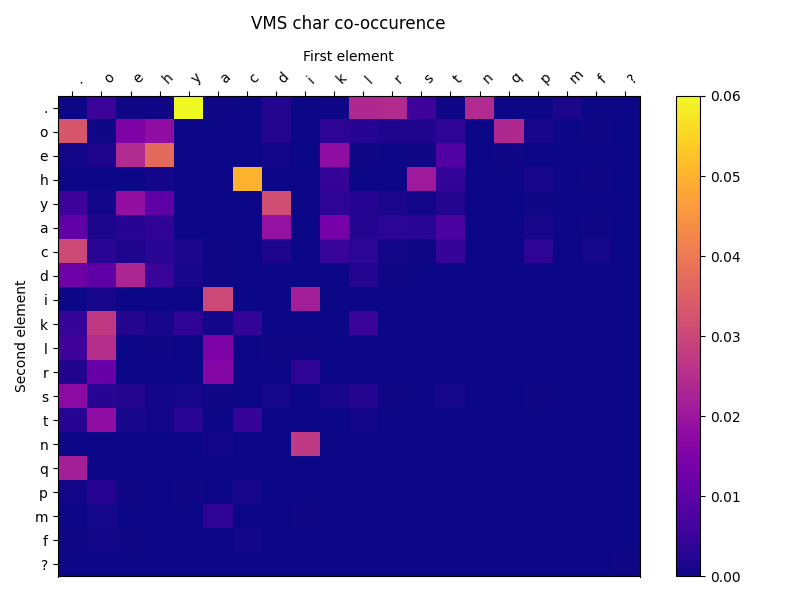
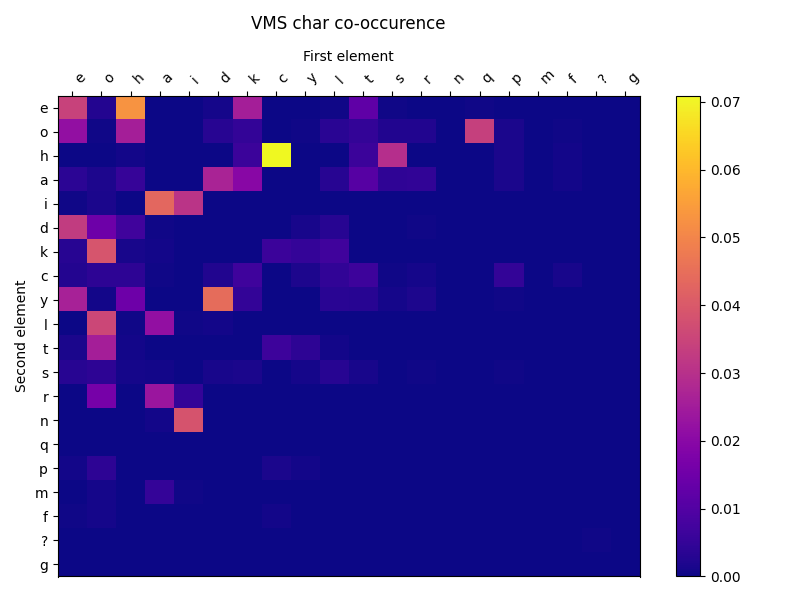
updates

diff --git a/examples/full_analysis.py b/examples/full_analysis.py
@@ -4,19 +4,19 @@ from pykeedy.analyze import run_full_analysis
 
 # run_full_analysis is an extremely powerful function that can run any combination of analyses on all of the available manuscripts
 # respective example files noted below
-# run_full_analysis(
-#     voynich=VMS.get(),  # Any Manuscript object
-#     comparison_texts_dir=None,  # None means use default corpus, see load_corpus.py
-#     comparison_text_names=None,  # text names to filter to
-#     output_dir="../full_analysis",
-#     add_encrypted=True,  # naibbe_entropy.py
-#     run_entropy=True,  # entropy_comparison.py
-#     run_ngram_freqs=True,  # char_and_word_ngram_freqs.py
-#     ngram_max_n=3,  # " "
-#     run_cooccurence=True,  # char_and_word_cooccurrence_heatmap.py
-#     run_word_lengths=True,  # word_length.py
-#     run_positions=True,  # word_positions.py
-# )
+run_full_analysis(
+    voynich=VMS.get(),  # Any Manuscript object
+    comparison_texts_dir=None,  # None means use default corpus, see load_corpus.py
+    comparison_text_names=None,  # text names to filter to
+    output_dir="../full_analysis",
+    add_encrypted=True,  # naibbe_entropy.py
+    run_entropy=True,  # entropy_comparison.py
+    run_ngram_freqs=True,  # char_and_word_ngram_freqs.py
+    ngram_max_n=3,  # " "
+    run_cooccurence=True,  # char_and_word_cooccurrence_heatmap.py
+    run_word_lengths=True,  # word_length.py
+    run_positions=True,  # word_positions.py
+)
 # This will apply all of these analyses to the VMS + all available plaintexts,
 # and save all the resulting pngs in a folder called "full_analysis_results",
 # along with a manifest.json file that can then be parsed to display the results in any format
@@ -25,11 +25,11 @@ from pykeedy.analyze import run_full_analysis
 from pykeedy.parse_analysis import analysis_to_md  #
 # Here is one such parser
 
-analysis_to_md(
-    manifest_path="../full_analysis/manifest.json",
-    output_markdown_fname="../analysis_summary.md",
-    md_to_imgs_path="./full_analysis",
-)
+# analysis_to_md(
+#     manifest_path="../full_analysis/manifest.json",
+#     output_markdown_fname="../analysis_summary.md",
+#     md_to_imgs_path="./full_analysis",
+# )
 # So running this file from inside the 'examples directory will
 # re-generate both '/full_analysis' and 'analysis_summary.md'.
-# (minus minor changes made to 'analysis_summary.md' for clarity)
+# (minus comments added to 'analysis_summary.md' for clarity)

diff --git a/src/pykeedy/analyze.py b/src/pykeedy/analyze.py
@@ -127,7 +127,7 @@ def per_manuscript(
         many_occurs = {k: sum(v) / len(v) for k, v in all_pos.items() if len(v) > 200}
         barplot(
             many_occurs,
-            key=("Letter", "Avg pos in word"),
+            key=("Letter (most common on left)", "Avg pos in word"),
             fname=f"{output_dir}/{name}_letters_pos_in_words.png",
             n_max=len(many_occurs),
             color=color,

diff --git a/src/pykeedy/analysis.py b/src/pykeedy/analysis.py
@@ -59,7 +59,7 @@ def cooccurence_matrix(
     # Generate n-grams, excluding any containing spaces
     # TODO add option that includes spaces to calculate most common first and last letters
     ngrams = []
-    exclude = [" ", "\n"]
+    exclude = [" ", "\n", "."]
     for i in range(len(seq) - n + 1):
         ngram = tuple(seq[i : i + n])
         if any(elem in exclude for elem in ngram):

diff --git a/analysis_summary.md b/analysis_summary.md
@@ -4,13 +4,19 @@ The clump in the bottom left is all the Naibbe encrypted texts, with similar ent
 </p>
 <br></br>
 <br></br>
-<br></br>
 Red: Dante's Inferno (Italian)
+<br></br>
 Blue: Der Meide Kranz (German)
+<br></br>
 Green: Pliny's Naturalis Historia (Latin)
+<br></br>
 Yellow: Voynich Manuscript
+<br></br>
 (This is the complete set of texts currently available in this library)
 <br></br>
+Frequency is normalized, so 0.1 means that character or word is 10% of the total chars / words, 0.001 means 1/1000 of total, etc.
+<br></br>
+Below: Character n-grams
 <br></br>
 
 <p float="left">
@@ -47,6 +53,7 @@ Yellow: Voynich Manuscript
 <br></br>
 <br></br>
 <br></br>
+Below: Word n-grams
 <br></br>
 
 <p float="left">
@@ -82,7 +89,9 @@ Yellow: Voynich Manuscript
 <br></br>
 <br></br>
 <br></br>
+Below: Character and word co-occurences, similarly normalized (a-e = 0.1 means it is 10% of all letter pairs)
 <br></br>
+20 most common shown for each
 <br></br>
 
 <p float="left">
@@ -107,6 +116,7 @@ Yellow: Voynich Manuscript
 <br></br>
 <br></br>
 <br></br>
+Below: Word lengths (not normalized)
 <br></br>
 
 <p float="left">
@@ -118,7 +128,9 @@ Yellow: Voynich Manuscript
 <br></br>
 <br></br>
 <br></br>
+Below: Average positions of letters in words, words in lines, and words in manuscripts
 <br></br>
+20 most common items shown for each, most common always on left
 <br></br>
 
 <p float="left">
